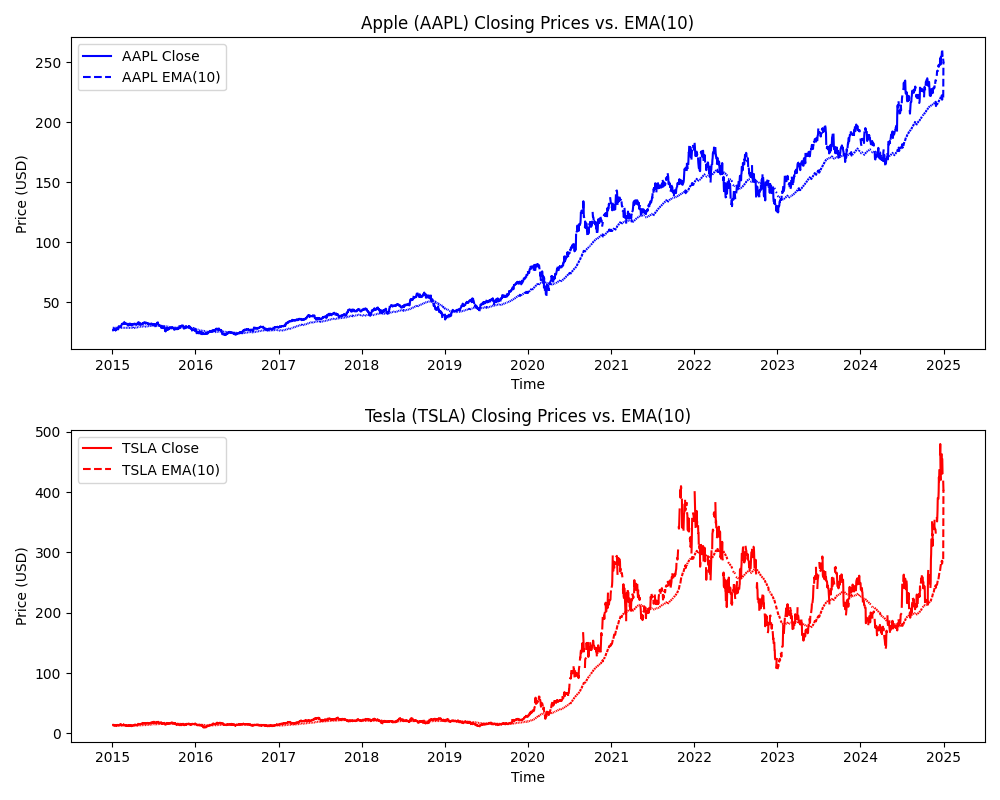
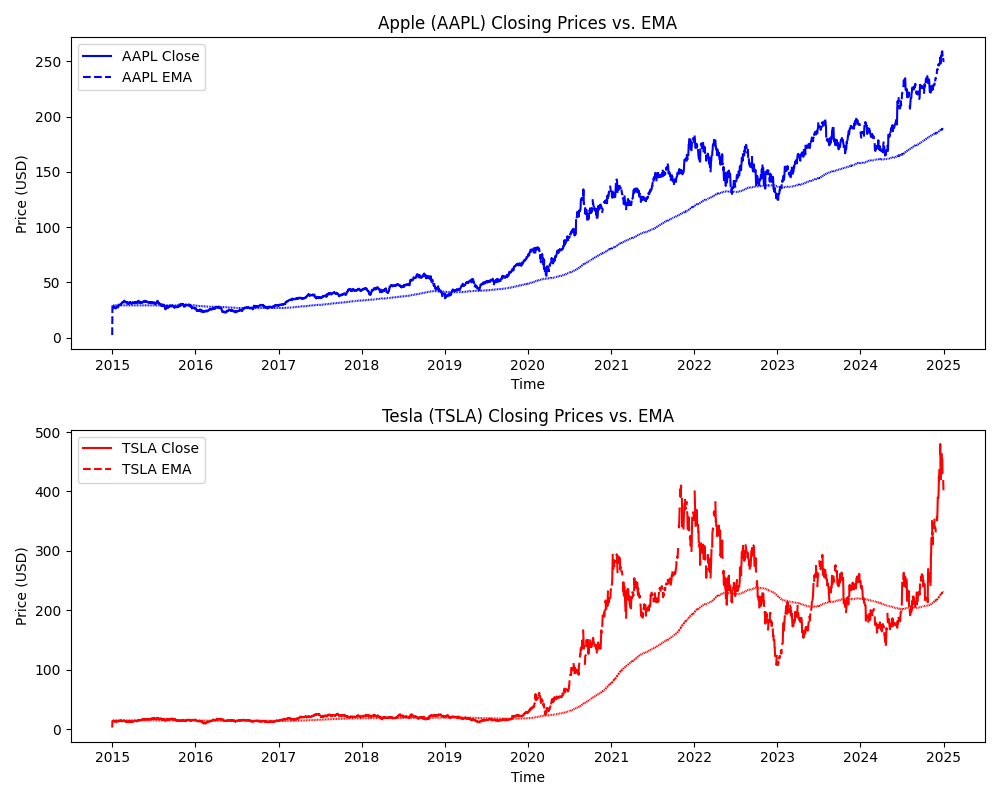
u_roll now works properly after fixes of indexing and resetting.

diff --git a/example_rolling.py b/example_rolling.py
@@ -22,7 +22,7 @@ def main():
         "config": {
             "provider": "yfinance",
             "symbols": ["AAPL", "TSLA"],
-            "start_date": "2024-01-01",
+            "start_date": "2015-01-01",
             "end_date": "2024-12-31",
         }
     }])
@@ -73,7 +73,7 @@ def main():
     dataset = datasets["openbb/equity/price/historical"]
     
     # Rolling-EMA of "close" over a 200-day window
-    ema_dataset = dataset.dt.rolling(dim='time', window=60).reduce(ema)
+    ema_dataset = dataset.dt.rolling(dim='time', window=252).reduce(ema)
 
     # Convert to time-indexed form for plotting
     # -- Original closing prices --
@@ -101,9 +101,9 @@ def main():
         x="time", ax=ax1, label="AAPL Close", color="blue", linestyle="-"
     )
     apple_close_ema.plot.line(
-        x="time", ax=ax1, label="AAPL EMA(10)", color="blue", linestyle="--"
+        x="time", ax=ax1, label="AAPL EMA", color="blue", linestyle="--"
     )
-    ax1.set_title("Apple (AAPL) Closing Prices vs. EMA(10)")
+    ax1.set_title("Apple (AAPL) Closing Prices vs. EMA")
     ax1.set_xlabel("Time")
     ax1.set_ylabel("Price (USD)")
     ax1.legend()
@@ -113,9 +113,9 @@ def main():
         x="time", ax=ax2, label="TSLA Close", color="red", linestyle="-"
     )
     tsla_close_ema.plot.line(
-        x="time", ax=ax2, label="TSLA EMA(10)", color="red", linestyle="--"
+        x="time", ax=ax2, label="TSLA EMA", color="red", linestyle="--"
     )
-    ax2.set_title("Tesla (TSLA) Closing Prices vs. EMA(10)")
+    ax2.set_title("Tesla (TSLA) Closing Prices vs. EMA")
     ax2.set_xlabel("Time")
     ax2.set_ylabel("Price (USD)")
     ax2.legend()

diff --git a/src/data/core/util.py b/src/data/core/util.py
@@ -362,7 +362,7 @@ class Rolling(eqx.Module):
         self.window = window
 
         self.mask = mask
-        self.indices = indices.astype(jnp.int32)
+        self.indices = jnp.where(indices == -1, 0, indices).astype(jnp.int32)
 
     @eqx.filter_jit
     def reduce(
@@ -461,7 +461,7 @@ class Rolling(eqx.Module):
                 
                 # Remove the extra dimension added earlier
                 rolled_full = rolled_full[..., 0]  # Shape: (T_full, assets, 1)
-                jax.debug.breakpoint()
+                # jax.debug.breakpoint()
     
                 # Reconstruct the DataArray with rolled data
                 rolled_da = stacked_obj.copy(data=rolled_full)
